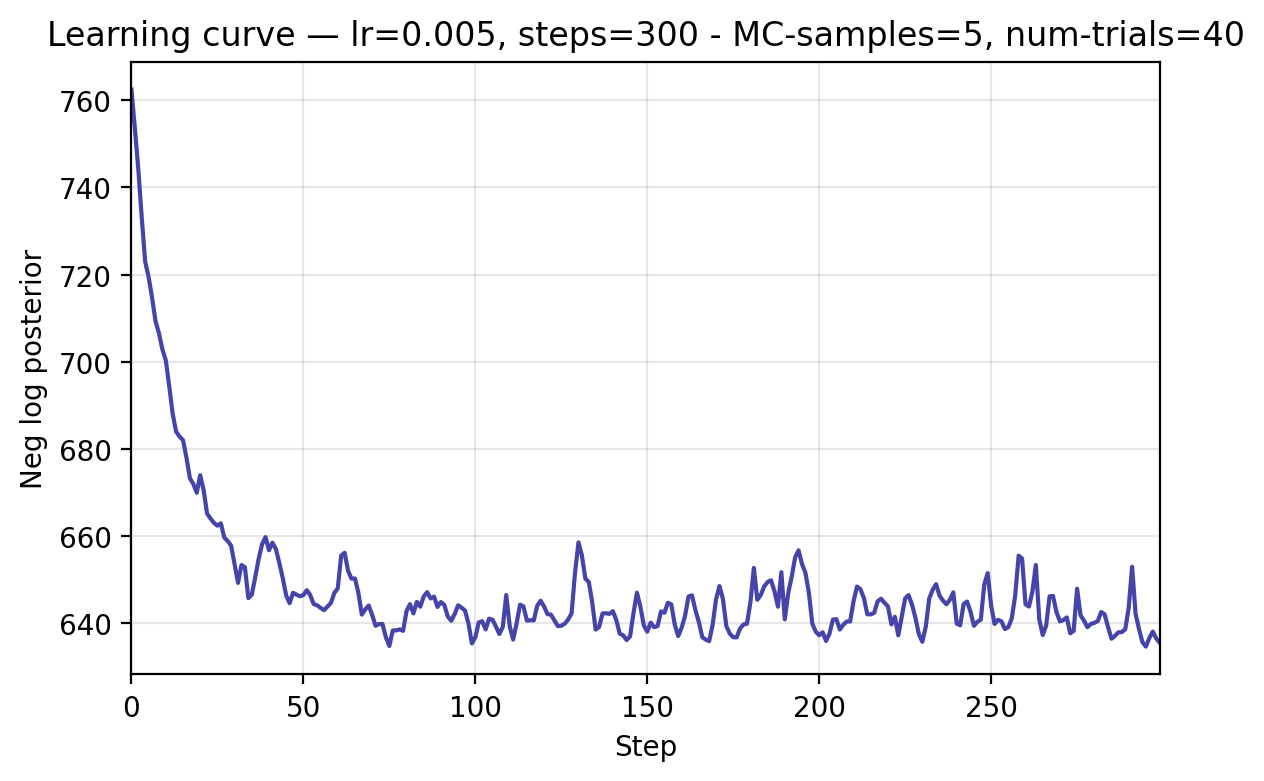
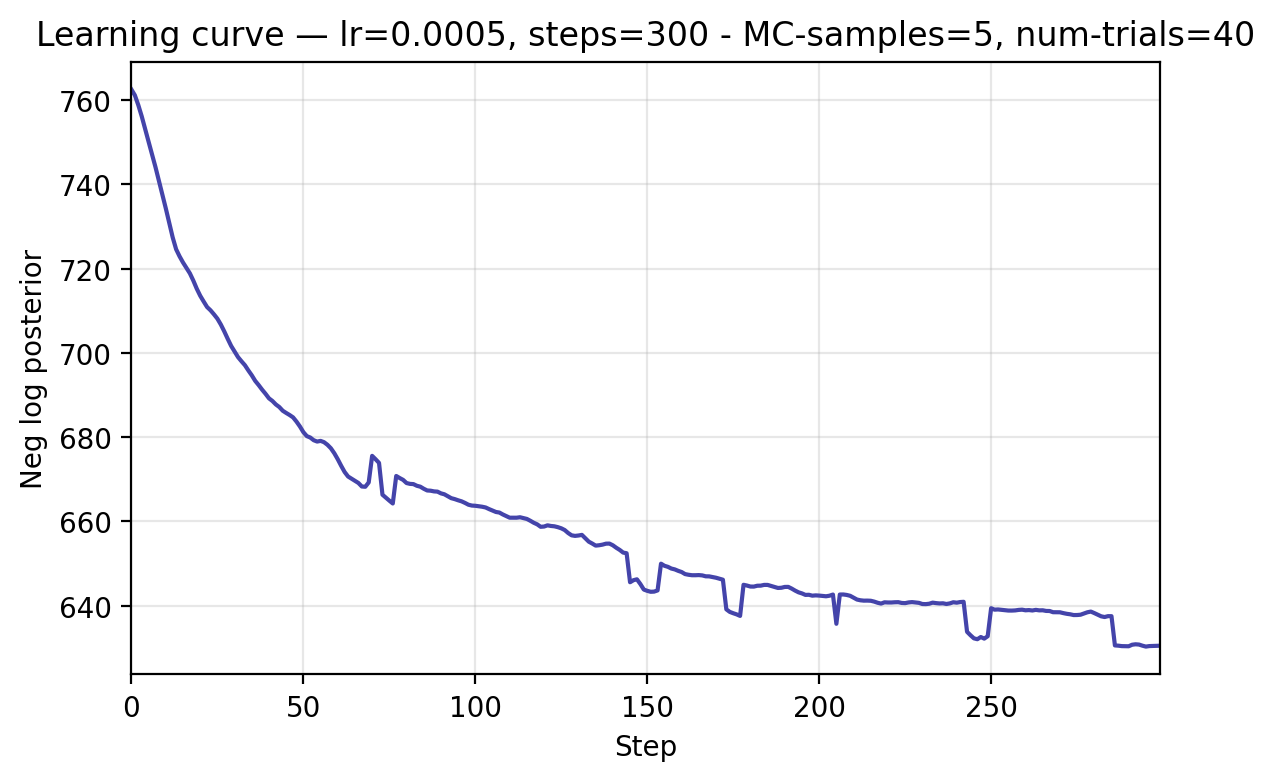
.

diff --git a/docs/examples/wppm/full_wppm_fit_example.py b/docs/examples/wppm/full_wppm_fit_example.py
@@ -59,30 +59,30 @@ print("Device used:", jax.devices()[0])
 # Helper: invert criterion to d* for Oddity task
 
 
-# Robust ellipse plotting utilities (like in covariance_field_demo.py)
-def matrix_sqrt(Sigma: jnp.ndarray) -> jnp.ndarray:
-    eigvals, eigvecs = jnp.linalg.eigh(Sigma)
-    sqrt_eigvals = jnp.sqrt(jnp.maximum(eigvals, 0))
-    return eigvecs @ jnp.diag(sqrt_eigvals) @ eigvecs.T
+# # Robust ellipse plotting utilities
+# def matrix_sqrt(Sigma: jnp.ndarray) -> jnp.ndarray:
+#     eigvals, eigvecs = jnp.linalg.eigh(Sigma)
+#     sqrt_eigvals = jnp.sqrt(jnp.maximum(eigvals, 0))
+#     return eigvecs @ jnp.diag(sqrt_eigvals) @ eigvecs.T
 
 
-def plot_ellipse_at_point(
-    ax,
-    center: jnp.ndarray,
-    Sigma: jnp.ndarray,
-    scale: float = 1.0,
-    color: str = "blue",
-    alpha: float = 1.0,
-    linewidth: float = 0.5,
-    label: str | None = None,
-):
-    sqrt_Sigma = matrix_sqrt(Sigma)
-    ellipse_points = scale * (sqrt_Sigma @ _UNIT_CIRCLE)
-    x_coords = center[0] + ellipse_points[0]
-    y_coords = center[1] + ellipse_points[1]
-    ax.plot(
-        x_coords, y_coords, color=color, alpha=alpha, linewidth=linewidth, label=label
-    )
+# def plot_ellipse_at_point(
+#     ax,
+#     center: jnp.ndarray,
+#     Sigma: jnp.ndarray,
+#     scale: float = 1.0,
+#     color: str = "blue",
+#     alpha: float = 1.0,
+#     linewidth: float = 0.5,
+#     label: str | None = None,
+# ):
+#     sqrt_Sigma = matrix_sqrt(Sigma)
+#     ellipse_points = scale * (sqrt_Sigma @ _UNIT_CIRCLE)
+#     x_coords = center[0] + ellipse_points[0]
+#     y_coords = center[1] + ellipse_points[1]
+#     ax.plot(
+#         x_coords, y_coords, color=color, alpha=alpha, linewidth=linewidth, label=label
+#     )
 
 
 _THETAS = jnp.linspace(0, 2 * jnp.pi, 100)
@@ -157,7 +157,7 @@ variance_scale = 4e-3
 diag_term = 1e-9
 # for ground-truth model
 bandwidth = 1e-2
-learning_rate = 5e-3  # 5e-5
+learning_rate = 5e-4  # 5e-5
 num_steps = 300
 
 task = OddityTask()
